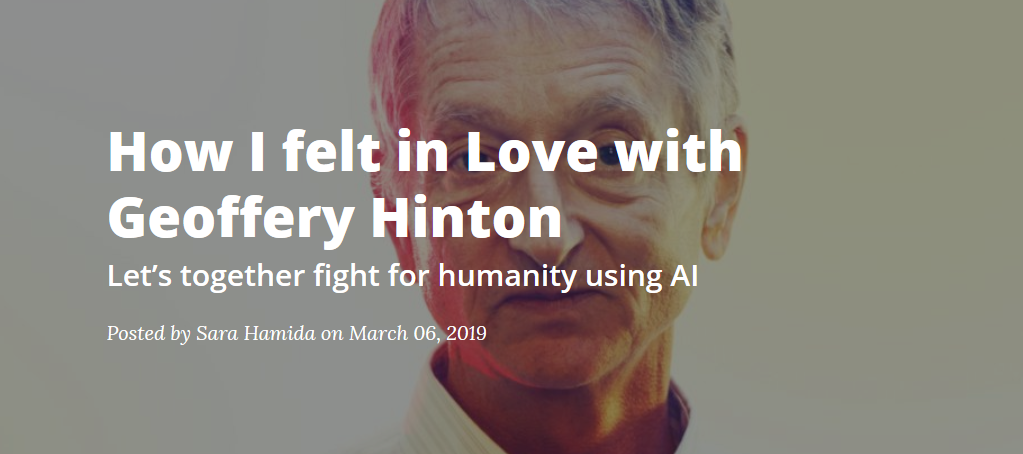
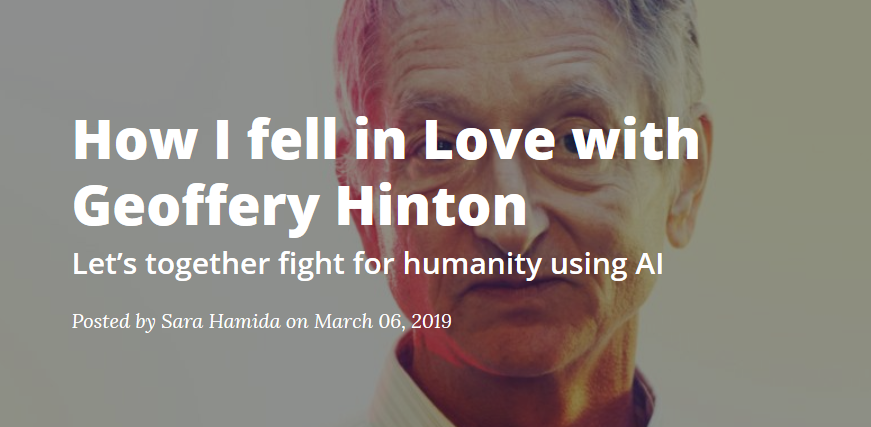
edits

Changed region(s): [[0.062, 0.0, 0.837, 1.0]]

diff --git a/blog/IA_love.html b/blog/IA_love.html
@@ -9,8 +9,8 @@
     <meta name="author" content="Sara Hamida">
     <meta property="og:image" content="https://inseait.github.io/blog/img/hin.png">
     <meta property="og:image:type" content="image/jpg">
-    <meta property="og:image:width" content="1023">
-    <meta property="og:image:height" content="454">
+    <meta property="og:image:width" content="871">
+    <meta property="og:image:height" content="427">
 
 
     <title>Geoffrey_Hinton</title>
@@ -66,8 +66,8 @@
             <div class="row">
                 <div class="col-lg-8 col-md-10 mx-auto">
                     <div class="post-heading">
-                        <h1>How I felt in Love with Geoffery Hinton</h1>
-                        <h2 class="subheading">Let’s together fight for humanity using AI</h2>
+                        <h1>How I fell in Love with Geoffery Hinton</h1>
+                        <h2 class="subheading">"Let’s together fight for humanity using AI"</h2>
                         <span class="meta">Posted by
                             <a href="#">Sara Hamida</a>
                             on March 06, 2019</span>
@@ -83,43 +83,43 @@
             <div class="row">
                 <div class="col-lg-8 col-md-10 mx-auto">
                     <p>
-                        &nbsp;&nbsp;&nbsp;&nbsp;&nbsp;&nbsp;&nbsp;&nbsp;&nbsp;&nbsp;For those of you who doesn’t know who <strong><a href="https://fr.wikipedia.org/wiki/Geoffrey_Hinton">Geoffry Hinton </a></strong>is I invite you to make a simple research on google, it’ll be worth the effort. 
-                        for those who knew the man I congratulate you you’re a passionate IA person and  you’d probably understand the title more quickly,
-                        it’s simply the love of AI field and what good it can do for the world, now let me tell you how this love started.
+                        &nbsp;&nbsp;&nbsp;&nbsp;&nbsp;&nbsp;&nbsp;&nbsp;&nbsp;&nbsp;For those of you who doesn’t know who <strong><a href="https://fr.wikipedia.org/wiki/Geoffrey_Hinton">Geoffrey Hinton </a></strong>is I invite you to make a simple research on google, it’ll be worth your time. 
+                        And for those of you who knew the man, I congratulate you you’re passionate about AI and  you’d probably understand the title more quickly.
+                        It’s simply the love of AI field and what good it can do for the world, now let me tell you how this love started.
                     </p>
                     <p>
 
                             &nbsp;&nbsp;&nbsp;&nbsp;&nbsp;&nbsp;&nbsp;&nbsp;&nbsp;&nbsp;From an early age, and like any other child I was always asked that classical question of : what do you want to be in the future,
-                        my answer was always : a Doctor, why? <br> because I used to watch a Korean drama about doctors, hospitals,
-                        operation rooms and saving people’s lives, The reason may be too childish for some of you, but let’s be 
+                        my answer was always : a Doctor, why? <br> Because I used to watch a Korean drama about doctors, hospitals,
+                        operation rooms and saving people’s lives. The reason may be too childish for some of you, but let’s be 
                         tolerant considering my age back then. <br>
                         <div style="margin-left:10%;">
                             <img src="img/doc.jpg" width="600" height="401"/> <br><br>
                         </div>
                         
-                        But I’ll admit I still love watching shows about doctors and their volunteering work,
-                        the lives they have the chance to daily save, and I envy them for the opportunity they were given to do such a human work,
-                        the opportunity I couldn’t and I could never have as an engineer, Or so I used to think, until I discovered the world of <strong>AI</strong>, 
+                        But I’ll admit that I still love watching shows about doctors and their volunteering work,
+                        the lives they have, the chance they get to daily save people and I envied them for the opportunity they were given to do such humanitarian work.
+                        An opportunity I could never have as an engineer, or so I used to think, until I discovered the world of <strong>AI</strong>, 
                         the world built by people like Geoffry Hinton, Andrew Ng and their gang. I finally found the place where I can be a doctor,
-                        a savior without putting the white apron nor the stethoscope, a world where you can hold more power in your pocket than
-                        your entire home, a world where you can literally change the world. 
+                        a savior without putting the white apron nor the stethoscope, a world where you can hold more power than
+                        your will, a world where you can literally change the world. 
                     </p>
                     <strong>Let’s get some motivation</strong>
                     <p>
-                            &nbsp;&nbsp;&nbsp;&nbsp;&nbsp;&nbsp;&nbsp;&nbsp;&nbsp;&nbsp;The good news is, we’re very lucky to live now to witness the IA revolution and to be part of it, it’s an era where we have all the resources we need to be part of this revolution,
-                        to get into the boat with these great people who wants to use IA for humanitarian purposes, everything is available now to do so, take the huge community Git built by
-                        this interesting human being Linus Torvalds who had this vision of creating a community where everyone can contribute to change the world see his Ted Talk
+                            &nbsp;&nbsp;&nbsp;&nbsp;&nbsp;&nbsp;&nbsp;&nbsp;&nbsp;&nbsp;The good news is, we’re very lucky to live now, to witness the AI revolution and to be part of it. It’s an era where we have all the resources we need to be part of this revolution,
+                        to get on board with these great people who want to use AI for humanitarian purposes. Especially that everything is available now to do so. Take the huge community Git built by
+                        this interesting human being: Linus Torvalds, who had this vision of creating a community where everyone can contribute to change the world, watch his Ted Talk
                         <a href="https://www.youtube.com/watch?v=qrYt4bbEUrUand">here</a>,
-                        See also <a href="https://inseait.com/blog/git.html">the article about Git of my friend Nacer Sebti</a> And you 
-                        have to definitely check the project made by my dear friends Zack and Ihab helping people who are visually impaired to detect obstacles in their way and notify them with their phones,
+                        See also <a href="https://inseait.com/blog/git.html">my friend's article Nacer Sebti about Git </a>. And you 
+                        have to definitely check the project made by my dear friends Zack and Ihab, a project made for helping people who are visually impaired to detect obstacles in their way and notify them with their phones,
                         and of course it’s open source, you can check on <a href="http://github.com/Z4ck404/Angel-Eyes ">Github</a> 
                     </p>
-                    <strong>ahead and start building your own AI app, and leave your mark in this world before leaving it.</strong>
+                    <strong>This is me inviting you to go ahead and start building your own AI app, and leave your mark in this world before leaving it.</strong>
                     <blockquote class="blockquote"> 
                             
-                            &nbsp;&nbsp;&nbsp;&nbsp;&nbsp;&nbsp;&nbsp;&nbsp;&nbsp;&nbsp; I’ll make this short and I will leave you with a video which perhaps can change something in you, it’s a call from Microsoft to all the fans of Geoffrey Hinton 
-                            to come abroad the ship of fighting against childhood Malnutrition, have fun and don’t ever
-                            forget that a small group of thoughtful people can change the world, it’s the only thing that ever has.                            
+                            &nbsp;&nbsp;&nbsp;&nbsp;&nbsp;&nbsp;&nbsp;&nbsp;&nbsp;&nbsp; I’ll make this short and I will leave you with a video which perhaps can change something in you. It’s a call from Microsoft to all the fans of Geoffrey Hinton 
+                            to come abroad the ship of fighting against childhood Malnutrition. Have fun and don’t ever
+                            forget that a small group of thoughtful people can change the world, it’s the only thing that ever had made an impact.                            
                     </blockquote>
                     <iframe width="750" height="359" src="https://www.youtube.com/embed/FfYxIkp_vw4" frameborder="0" allow="accelerometer; autoplay; encrypted-media; gyroscope; picture-in-picture" allowfullscreen></iframe>
                     <hr>
